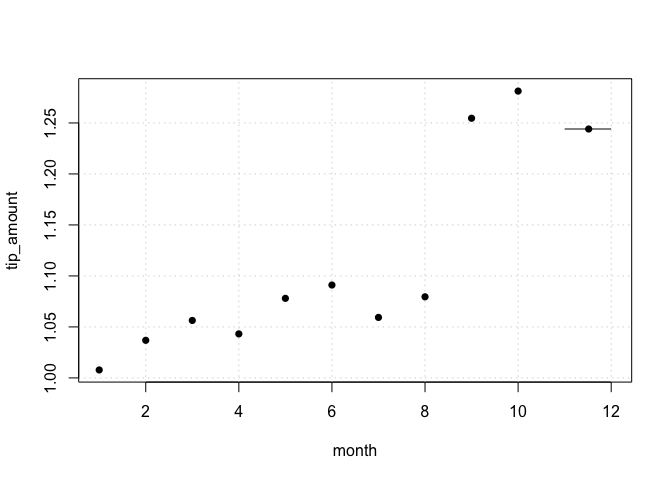
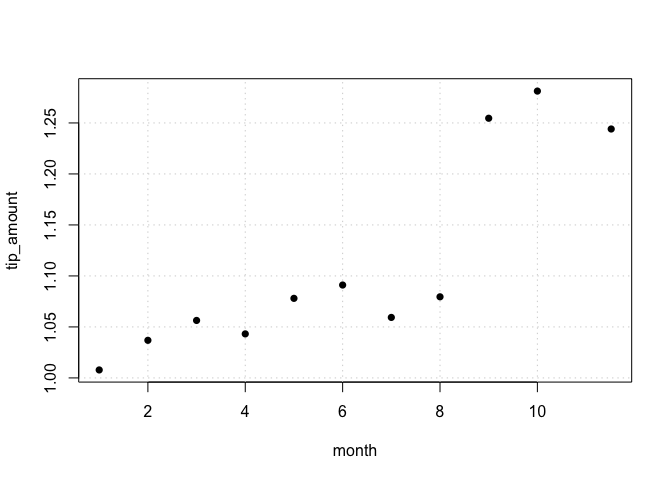
clean slate

diff --git a/README.md b/README.md
@@ -270,7 +270,7 @@ relationships in large datasets. Here we plot average tips by month:
 
 ``` r
 dbbinsreg(
-   tip_amount ~ month, nbins = 12, line = TRUE,
+   tip_amount ~ month, nbins = 12,
    path = "read_parquet('nyc-taxi/**/*.parquet')"
 )
 ```
@@ -279,7 +279,7 @@ dbbinsreg(
 
     #> Binscatter Plot
     #> Formula: tip_amount ~ month 
-    #> points = c(0,0) | line = c(0,0) | nbins = 11 (quantile-spaced)
+    #> points = c(0,0) | line = NULL | nbins = 11 (quantile-spaced)
     #> Observations: 178,544,324 (original) | 11 (compressed)
 
 The plot reveals a striking jump in tips starting in September. We can
